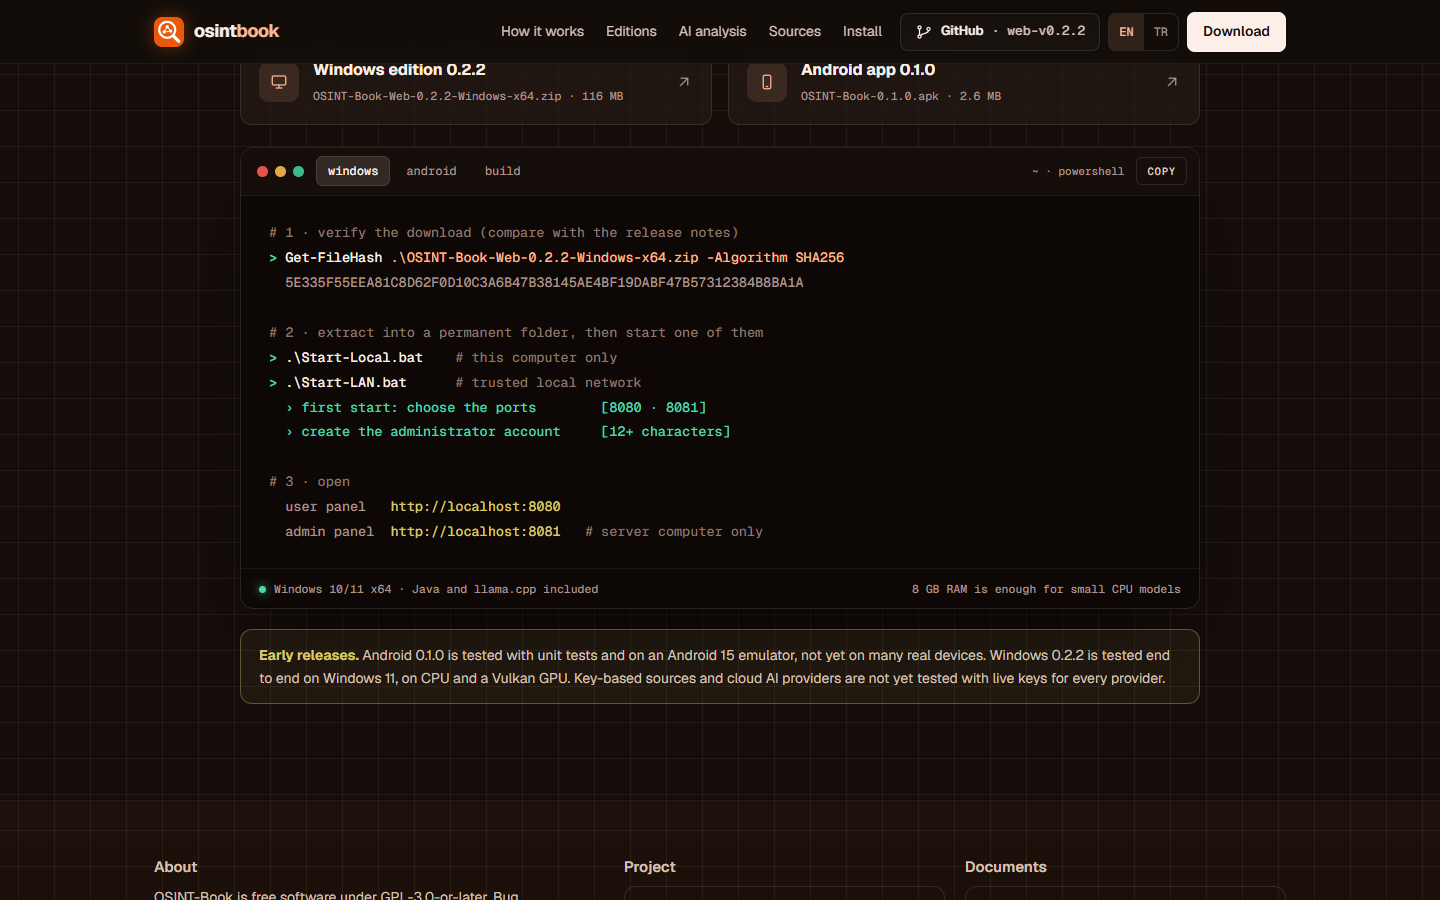
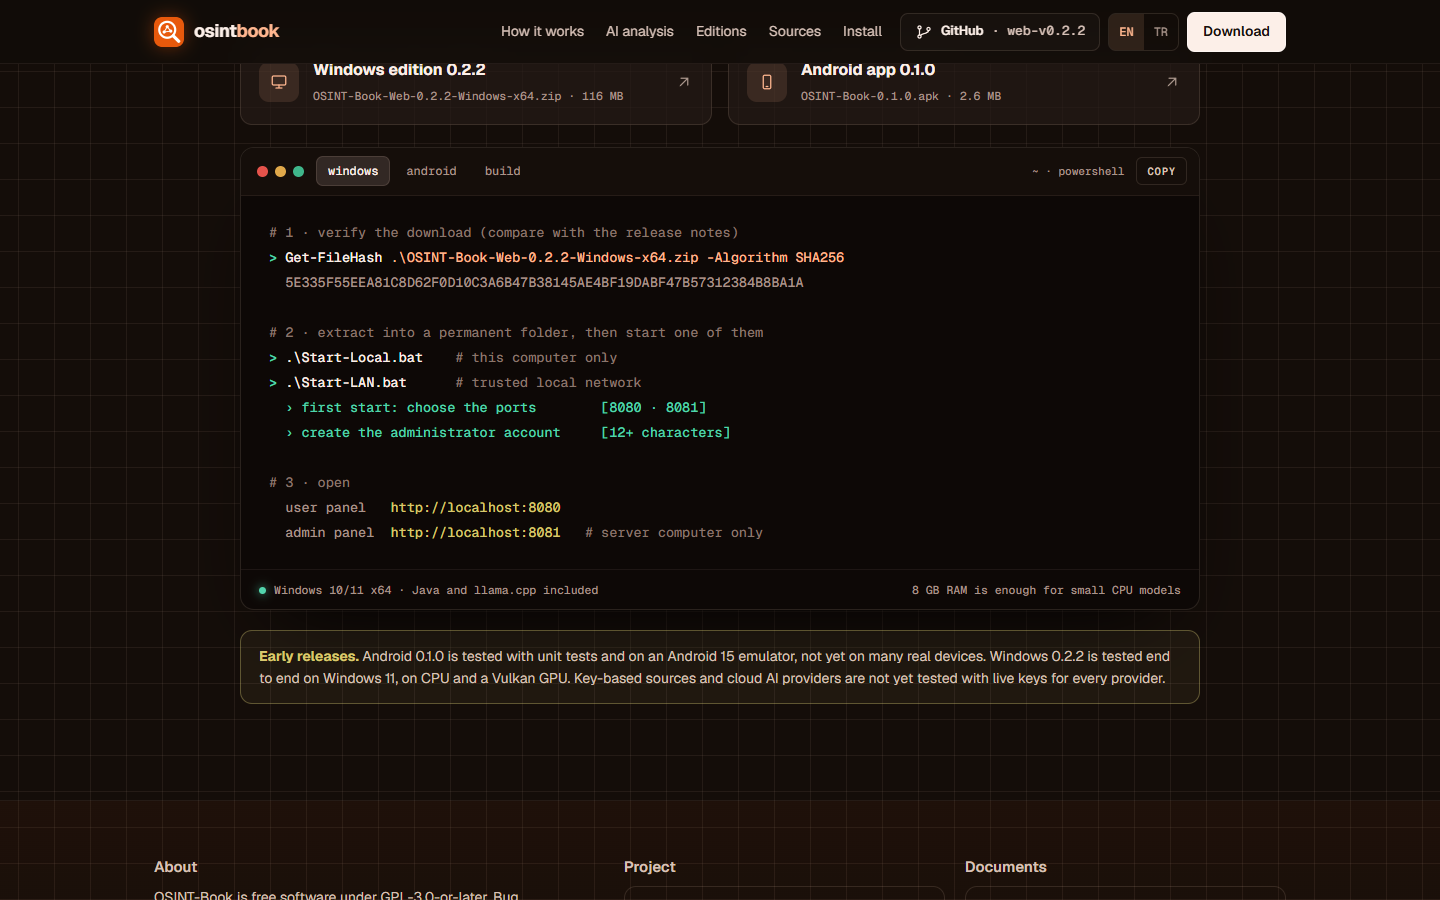
aperture-topology-story: introduce AI analysis in the hero
The hero lead now mentions rule-based and optional AI analysis, a pill
under it links to the AI section, and the facts row lists it. The AI
section moves first after the story, the nav follows. Screenshots
retaken; SKILL.md describes the headline-feature pill.

diff --git a/skills/aperture-topology-story/example/index.html b/skills/aperture-topology-story/example/index.html
@@ -10,6 +10,7 @@
 <meta property="og:type" content="website">
 <meta property="og:title" content="OSINT-Book">
 <meta property="og:description" content="A passive, source-first OSINT notebook for Android and Windows. Free and open source (GPL-3.0-or-later).">
+<link rel="canonical" href="https://smyrna-pergamum.github.io/osint-book/">
 <link rel="icon" href="assets/icon.svg" type="image/svg+xml">
 <link rel="preconnect" href="https://fonts.googleapis.com">
 <link rel="preconnect" href="https://fonts.gstatic.com" crossorigin>
@@ -90,7 +91,11 @@ code,kbd{font-family:var(--mono);font-size:.88em}
 .hero-title{position:absolute;left:max(24px,calc((100% - 1180px)/2 + 64px));bottom:6px;margin:0;z-index:2;
   font:700 clamp(2.6rem,6.2vw,5.2rem)/.86 var(--display);letter-spacing:0;color:#fff6f1;
   text-shadow:0 0 2px rgba(255,255,255,.86),0 0 18px rgba(255,182,143,.36),0 0 48px rgba(82,213,173,.14),0 18px 52px rgba(0,0,0,.6)}
-.hero-sub{margin:14px 0 0;color:var(--fg-2);font-size:17px;max-width:46ch}
+.hero-sub{margin:14px 0 0;color:var(--fg-2);font-size:17px;max-width:52ch}
+.ai-pill{display:inline-flex;align-items:center;gap:10px;margin-top:16px;padding:5px 12px 5px 5px;border:1px solid rgba(255,182,143,.35);border-radius:999px;background:linear-gradient(90deg,rgba(232,89,12,.16),rgba(232,89,12,.04));color:var(--fg);font-size:13.5px;line-height:1.35}
+.ai-pill:hover{border-color:var(--brand-2);text-decoration:none}
+.ai-pill .tag{flex:none;padding:3px 9px;border-radius:999px;background:var(--brand);color:#fff;font:600 11px var(--mono);letter-spacing:.04em;box-shadow:0 0 14px var(--brand-glow)}
+.ai-pill .icon{width:15px;height:15px;color:var(--brand-2)}
 .hero-actions{display:grid;grid-template-columns:1.05fr 1fr auto;gap:40px;margin-top:34px;align-items:start}
 .hero-col{min-width:0}
 .hero-col h2{font-size:15px;font-weight:600;margin:0 0 10px;color:var(--fg)}
@@ -395,6 +400,7 @@ details.left-out ul{margin:12px 0 0;padding-left:18px;color:var(--fg-2);font-siz
   .hero-title{position:relative;left:auto;bottom:auto;padding:0 16px;margin-top:-4px}
   .cmd .arr,.cmd .s{display:none}
   .hero-sub{padding:0 16px}
+  .ai-pill{margin:14px 16px 0;border-radius:14px}
   .hero-actions{grid-template-columns:1fr;gap:28px}
   .sec{padding:72px 0}
   .sec-head{grid-template-columns:1fr;gap:16px}
@@ -454,8 +460,8 @@ details.left-out ul{margin:12px 0 0;padding-left:18px;color:var(--fg-2);font-siz
     <a class="brand" href="#top" aria-label="OSINT-Book home"><img src="assets/icon.svg" alt="" width="30" height="30"><span>osint<b>book</b></span></a>
     <nav class="nav-links" aria-label="Main">
       <a href="#how" data-i18n="nav.how">How it works</a>
-      <a href="#editions" data-i18n="nav.editions">Editions</a>
-      <a href="#ai" class="opt" data-i18n="nav.ai">AI analysis</a>
+      <a href="#ai" data-i18n="nav.ai">AI analysis</a>
+      <a href="#editions" class="opt" data-i18n="nav.editions">Editions</a>
       <a href="#sources" data-i18n="nav.sources">Sources</a>
       <a href="#install" class="opt" data-i18n="nav.install">Install</a>
     </nav>
@@ -478,7 +484,8 @@ details.left-out ul{margin:12px 0 0;padding-left:18px;color:var(--fg-2);font-siz
     <h1 class="hero-title" id="hero-title" data-i18n="hero.title">Source-first<br>OSINT notebook</h1>
   </div>
   <div class="shell">
-    <p class="hero-sub" data-i18n="hero.sub">Research domains, URLs, IPs, organisations, repositories, packages and file hashes with public sources you pick yourself. Every claim traces back to where it came from.</p>
+    <p class="hero-sub" data-i18n="hero.sub">Research domains, URLs, IPs, organisations, repositories, packages and file hashes with public sources you pick yourself. Rule-based analysis, and optional AI analysis, turn the findings into observations that cite their evidence.</p>
+    <a class="ai-pill" href="#ai"><span class="tag" data-i18n="hero.ai.tag">AI analysis</span><span data-i18n="hero.ai">Local models offline, or cloud APIs after you confirm. Windows edition.</span><svg class="icon"><use href="#i-arrow"/></svg></a>
     <div class="hero-actions">
       <div class="hero-col">
         <h2 data-i18n="hero.win.h">Windows edition</h2>
@@ -493,7 +500,7 @@ details.left-out ul{margin:12px 0 0;padding-left:18px;color:var(--fg-2);font-siz
       <div class="hero-col">
         <h2 data-i18n="hero.and.h">Same sources, same file format</h2>
         <p data-i18n="hero.and.p"><b>One person on a phone, or a team on a local network.</b> Both editions share the sources, the rule-based analysis and a versioned JSON exchange format. No account, no ads, no tracking, no telemetry.</p>
-        <div class="facts"><span>GPL-3.0-or-later</span><span>Android 8.0+</span><span class="o">Windows 10/11</span><span class="k" data-i18n="hero.langs">9 languages</span></div>
+        <div class="facts"><span>GPL-3.0-or-later</span><span>Android 8.0+</span><span class="o">Windows 10/11</span><span class="k" data-i18n="hero.langs">9 languages</span><span class="o" data-i18n="hero.fact.ai">AI analysis (Windows)</span></div>
       </div>
       <div class="hero-side">
         <span data-i18n="hero.oss">Free and open source</span>
@@ -536,41 +543,11 @@ details.left-out ul{margin:12px 0 0;padding-left:18px;color:var(--fg-2);font-siz
   </div>
 </div>
 
-<!-- ===== Editions ===== -->
-<section class="sec" id="editions" aria-labelledby="ed-title">
-  <div class="shell">
-    <div class="sec-head">
-      <div><span class="eyebrow" data-i18n="eb1">01 / editions</span><h2 class="reveal" id="ed-title" data-i18n="ed.h">Two editions.<br>One file format.</h2></div>
-      <p data-i18n="ed.p">The Android app keeps everything on your phone. The Windows edition runs as a small server for a team on one PC or a trusted local network. Investigations move between them as versioned JSON.</p>
-    </div>
-    <div class="panel">
-      <div style="padding:18px 22px 0;display:flex;justify-content:space-between;align-items:center;gap:12px;flex-wrap:wrap">
-        <div class="tabs" role="tablist" aria-label="Edition">
-          <button type="button" role="tab" id="tab-and" aria-selected="true" aria-controls="ed-panel" data-ed="android" data-i18n="ed.tab.and">Android app</button>
-          <button type="button" role="tab" id="tab-win" aria-selected="false" aria-controls="ed-panel" data-ed="windows" tabindex="-1" data-i18n="ed.tab.win">Windows edition</button>
-        </div>
-        <span style="font:500 12px var(--mono);color:var(--muted)" id="edVer">v0.1.0 · Android 8.0+</span>
-      </div>
-      <div class="ed-body" id="ed-panel" role="tabpanel" aria-labelledby="tab-and">
-        <div class="ed-text" id="edText"></div>
-        <div>
-          <div class="diagram" id="edDiagram" aria-hidden="true"></div>
-          <div class="shots" id="edShots"></div>
-        </div>
-      </div>
-      <div class="panel-foot">
-        <div class="legend"><span style="--c:var(--brand-2)" data-i18n="ed.leg1">target value only</span><span style="--c:var(--teal)" data-i18n="ed.leg2">findings with evidence</span><span style="--c:var(--gold)" data-i18n="ed.leg3">optional, after you confirm</span></div>
-        <span data-i18n="ed.foot">Exchange: versioned JSON, both ways</span>
-      </div>
-    </div>
-  </div>
-</section>
-
 <!-- ===== AI ===== -->
-<section class="sec" id="ai" aria-labelledby="ai-title" style="padding-top:24px">
+<section class="sec" id="ai" aria-labelledby="ai-title">
   <div class="shell">
     <div class="sec-head">
-      <div><span class="eyebrow" data-i18n="eb2">02 / ai analysis · windows</span><h2 class="reveal" id="ai-title" data-i18n="ai.h">AI that reads findings.<br>Never rewrites them.</h2></div>
+      <div><span class="eyebrow" data-i18n="eb2">01 / ai analysis · windows</span><h2 class="reveal" id="ai-title" data-i18n="ai.h">AI that reads findings.<br>Never rewrites them.</h2></div>
       <p data-i18n="ai.p">Optional. You decide where the model runs: offline on the server, or with a cloud provider after you confirm. The output is shown as interpretation, linked to the findings it cites.</p>
     </div>
     <div class="panel ai-wrap">
@@ -592,6 +569,36 @@ details.left-out ul{margin:12px 0 0;padding-left:18px;color:var(--fg-2);font-siz
         <div class="blk out"><h4 data-i18n="ai.o6">Risk matrix</h4></div>
       </div>
       <p class="ai-note" data-i18n="ai.note">Original findings and their review status are never changed · every cloud analysis is recorded in the activity log</p>
+    </div>
+  </div>
+</section>
+
+<!-- ===== Editions ===== -->
+<section class="sec" id="editions" aria-labelledby="ed-title" style="padding-top:24px">
+  <div class="shell">
+    <div class="sec-head">
+      <div><span class="eyebrow" data-i18n="eb1">02 / editions</span><h2 class="reveal" id="ed-title" data-i18n="ed.h">Two editions.<br>One file format.</h2></div>
+      <p data-i18n="ed.p">The Android app keeps everything on your phone. The Windows edition runs as a small server for a team on one PC or a trusted local network. Investigations move between them as versioned JSON.</p>
+    </div>
+    <div class="panel">
+      <div style="padding:18px 22px 0;display:flex;justify-content:space-between;align-items:center;gap:12px;flex-wrap:wrap">
+        <div class="tabs" role="tablist" aria-label="Edition">
+          <button type="button" role="tab" id="tab-and" aria-selected="true" aria-controls="ed-panel" data-ed="android" data-i18n="ed.tab.and">Android app</button>
+          <button type="button" role="tab" id="tab-win" aria-selected="false" aria-controls="ed-panel" data-ed="windows" tabindex="-1" data-i18n="ed.tab.win">Windows edition</button>
+        </div>
+        <span style="font:500 12px var(--mono);color:var(--muted)" id="edVer">v0.1.0 · Android 8.0+</span>
+      </div>
+      <div class="ed-body" id="ed-panel" role="tabpanel" aria-labelledby="tab-and">
+        <div class="ed-text" id="edText"></div>
+        <div>
+          <div class="diagram" id="edDiagram" aria-hidden="true"></div>
+          <div class="shots" id="edShots"></div>
+        </div>
+      </div>
+      <div class="panel-foot">
+        <div class="legend"><span style="--c:var(--brand-2)" data-i18n="ed.leg1">target value only</span><span style="--c:var(--teal)" data-i18n="ed.leg2">findings with evidence</span><span style="--c:var(--gold)" data-i18n="ed.leg3">optional, after you confirm</span></div>
+        <span data-i18n="ed.foot">Exchange: versioned JSON, both ways</span>
+      </div>
     </div>
   </div>
 </section>
@@ -732,7 +739,8 @@ var TR = {
   'skip':'İçeriğe geç',
   'nav.how':'Nasıl çalışır','nav.editions':'Sürümler','nav.ai':'Yapay zekâ analizi','nav.sources':'Kaynaklar','nav.install':'Kurulum','nav.download':'İndir',
   'hero.title':'Kaynak öncelikli<br>OSINT defteri',
-  'hero.sub':'Alan adlarını, URL\'leri, IP\'leri, kuruluşları, depoları, paketleri ve dosya hash\'lerini kendi seçtiğiniz açık kaynaklarla araştırın. Her iddia geldiği yere kadar izlenebilir.',
+  'hero.sub':'Alan adlarını, URL\'leri, IP\'leri, kuruluşları, depoları, paketleri ve dosya hash\'lerini kendi seçtiğiniz açık kaynaklarla araştırın. Kural tabanlı analiz ve isteğe bağlı yapay zekâ analizi, bulguları kanıtına dayanan gözlemlere çevirir.',
+  'hero.ai.tag':'Yapay zekâ analizi','hero.ai':'Yerel modeller çevrimdışı ya da onayınızdan sonra bulut API\'leri. Windows sürümü.','hero.fact.ai':'YZ analizi (Windows)',
   'hero.win.h':'Windows sürümü','hero.win.btn':'Windows ZIP · 0.2.2','hero.and.btn':'Android APK · 0.1.0','hero.more':'Bir hedefi takip edin',
   'hero.and.h':'Aynı kaynaklar, aynı dosya biçimi',
   'hero.and.p':'<b>Telefonda tek kişi ya da yerel ağda bir ekip.</b> İki sürüm de aynı kaynakları, kural tabanlı analizi ve sürümlü JSON değişim biçimini paylaşır. Hesap yok, reklam yok, izleme yok, telemetri yok.',
@@ -765,7 +773,7 @@ var TR = {
   'in.win':'Windows sürümü 0.2.2','in.and':'Android uygulaması 0.1.0','in.copy':'KOPYALA',
   'in.status':'<b>Erken sürümler.</b> Android 0.1.0 birim testleriyle ve bir Android 15 emülatöründe test edildi, henüz çok sayıda gerçek cihazda değil. Windows 0.2.2, Windows 11\'de CPU ve Vulkan GPU üzerinde uçtan uca test edildi. Anahtarlı kaynaklar ve bulut yapay zekâ sağlayıcıları henüz her sağlayıcı için gerçek anahtarlarla test edilmedi.',
   'f.about':'Hakkında','f.aboutp':'OSINT-Book, GPL-3.0-or-later lisanslı özgür bir yazılımdır. Hata bildirimleri ve öneriler Issues bölümüne.','f.proj':'Proje','f.rel':'Sürümler','f.chg':'Değişiklikler','f.iss':'Issues','f.docs':'Belgeler','f.priv':'Gizlilik','f.api':'API kaydı','f.guide':'Windows kılavuzu','f.build':'Derleme',
-  'eb1':'01 / sürümler','eb2':'02 / yapay zekâ analizi · windows','eb3':'03 / kaynaklar','eb4':'04 / gizlilik ve kapsam','eb5':'05 / kurulum',
+  'eb1':'02 / sürümler','eb2':'01 / yapay zekâ analizi · windows','eb3':'03 / kaynaklar','eb4':'04 / gizlilik ve kapsam','eb5':'05 / kurulum',
   'f.osm':'Harita verisi © OpenStreetMap katkıcıları · bu sayfadaki örnek veriler işaretlenmiştir'
 };
 var EN = {};

diff --git a/skills/aperture-topology-story/SKILL.md b/skills/aperture-topology-story/SKILL.md
@@ -42,7 +42,7 @@ If the user names a reference site, take its *style* only. Never copy its render
 | Signals | Two more hues, one meaning each: teal = free / ok / finding returned; gold = needs a key / optional / missing. Outbound packets use brand, returning packets teal. Severity is always colour + icon + word. |
 | Display | **Rajdhani 700**, line-height .84–.98, letter-spacing 0, sentence case. Hero 2.6–5.2rem with a four-layer glow: `0 0 2px #fff·86%, 0 0 18px brand-2·36%, 0 0 48px teal·14%, 0 18px 52px #000·60%`. On paper the same face with `0 1px #fff, 0 14px 34px ink·12%`. |
 | Body / UI | **Geist** 400–700, 14–17px. |
-| Labels | **Geist Mono** 10–13px: node labels, sub-labels, chips, table quotas, terminal, rail, eyebrows (`01 / editions`, uppercase + .14em only here). |
+| Labels | **Geist Mono** 10–13px: node labels, sub-labels, chips, table quotas, terminal, rail, eyebrows (`01 / ai analysis`, uppercase + .14em only here). |
 | Cards | Dark panels: 16px radius, 1px `--line-2`, vertical gradient surface. Paper cards: white, 14px radius, 1px warm line, `0 14px 34px -14px` shadow. Chips are pills (20px tall). Finding rows have a 6×18px gradient handle on the left. |
 | Buttons | Primary = near-white fill with dark ink (8px radius, 40px). Ghost = 1px line that turns brand-2 on hover. Pill buttons in the nav carry a mono suffix (`· web-v0.2.2`). |
 | Icons | 24-grid single-stroke 1.7px line icons in an inline `<symbol>` sprite; the same sprite is `<use>`d inside the SVG graph. |
@@ -55,7 +55,9 @@ If the user names a reference site, take its *style* only. Never copy its render
    on curved dashed edges, each with a mono label and a mono sub-label that states access: `key-free`, `your key`).
    The display headline sits over the lower-left of the graph. Under it: a one-sentence lead and a three-column row –
    "run it" (a command chip with copy + primary/ghost download buttons + "follow …" link), "what it is" (bold first
-   sentence + facts row with coloured dots), and a small brand badge.
+   sentence + facts row with coloured dots), and a small brand badge. If the product has a headline feature that the
+   topology does not show (OSINT-Book: optional AI analysis), name it in the lead and add one pill under it: a filled
+   brand tag (`AI analysis`) + one line + arrow, linking to that section, which then comes first after the story.
 3. **Aperture story** (pinned, ~640vh) – see §4.
 4. **Integration strip** – mono uppercase label left, a wrapped list of dotted names right, hairlines above and below.
 5. **Architecture switcher** – section head (big display title left, paragraph right), then one dark panel: a tablist
